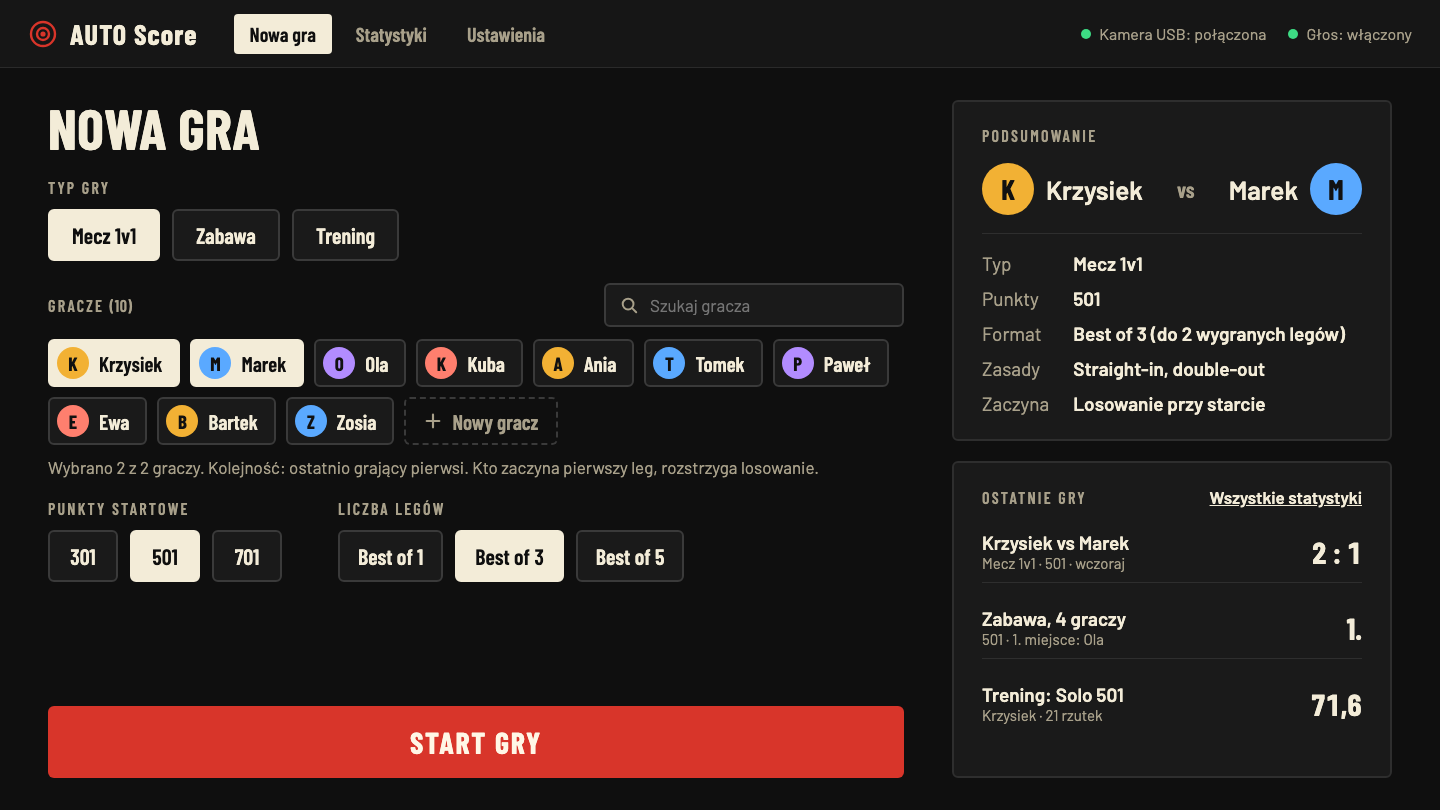
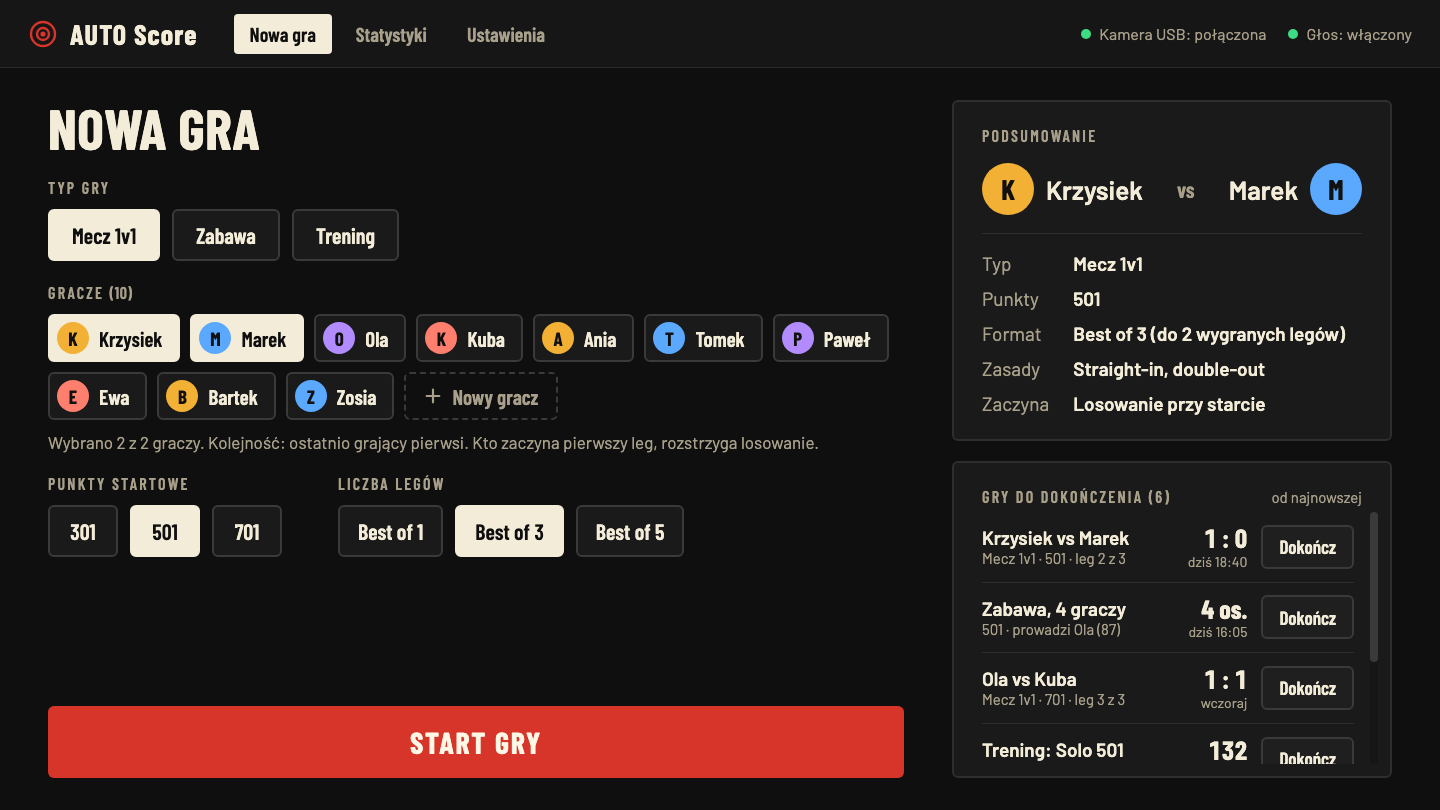
design: games to resume on the start screen, no player search
The start screen lists unfinished games in a scrollable card with a
"Dokończ" button instead of recent games. The 10-player variant drops
the player search field.

diff --git a/auto-score-dart-pomysly.md b/auto-score-dart-pomysly.md
@@ -659,7 +659,7 @@ Każdy etap ma kończyć się działającą rzeczą, którą da się użyć, bo 
 - **Urządzenie:** na start monitor (Mac), później tablet i TV jako drugi ekran. Układ responsywny.
 - **Wyniki i zakończenia na ekranie:** podpowiedź zamknięcia (np. D12) i liczba rzutek do wygrania lega widoczne na ekranie gry, a na koniec lega i meczu ekran podsumowania (wynik, średnie, najwyższe zakończenie).
 - **Makiety:** [AUTO Score: ekran gry (2 motywy)](https://claude.ai/artifact/X3fQ7qb26tmktL3amc2pML). Obowiązuje motyw A (czerwony): ekrany „A: 2 graczy” i „A: 4 graczy”. Zielony wariant B („Ciemny nowoczesny”) jest odrzucony.
-- **Zrzuty ekranów A** w repo (1440×810): `design/mockups/theme-a-2-players.png`, `design/mockups/theme-a-4-players.png`, `design/mockups/theme-a-new-game.png` (ekran startowy: typ gry, gracze, punkty, liczba legów, podsumowanie, ostatnie gry), `design/mockups/theme-a-new-game-10-players.png` (ten sam ekran przy 10 graczach: chipy zawijają się w 2 rzędy, nad nimi wyszukiwarka graczy, kolejność od ostatnio grających; miejsca starczy do ok. 20 graczy, potem lista musi się przewijać albo pokazywać tylko ostatnio grających), `design/mockups/theme-a-stats.png` (statystyki: filtry typu gry i okresu, 6 rankingów top 3, m.in. najlepsza średnia w legu). Liczby na makietach są przykładowe. Na makietach brakuje klawiatury ręcznego wpisu (decyzja zapadła później), więc P5 musi ją zaprojektować w tym samym stylu.
+- **Zrzuty ekranów A** w repo (1440×810): `design/mockups/theme-a-2-players.png`, `design/mockups/theme-a-4-players.png`, `design/mockups/theme-a-new-game.png` (ekran startowy: typ gry, gracze, punkty, liczba legów, podsumowanie, przewijana lista gier do dokończenia z przyciskiem Dokończ), `design/mockups/theme-a-new-game-10-players.png` (ten sam ekran przy 10 graczach: chipy zawijają się w 2 rzędy, bez wyszukiwarki, kolejność od ostatnio grających; miejsca starczy do ok. 20 graczy, potem lista musi się przewijać albo pokazywać tylko ostatnio grających), `design/mockups/theme-a-stats.png` (statystyki: filtry typu gry i okresu, 6 rankingów top 3, m.in. najlepsza średnia w legu). Liczby na makietach są przykładowe. Na makietach brakuje klawiatury ręcznego wpisu (decyzja zapadła później), więc P5 musi ją zaprojektować w tym samym stylu.
 - **Tokeny motywu A** w repo: `design/theme.css` (kolory, fonty, rozmiary z makiety 1440×810, promienie). Uwaga do P5: kremowy tekst na czerwonym akcencie ma kontrast 4,4:1, więc nadaje się tylko do dużego tekstu; mała odznaka „Rzuca” (13 px) z makiety wymaga większego, pogrubionego tekstu albo innego rozwiązania.
 
 # Typy gier: mecz 1v1, zabawa i trening
